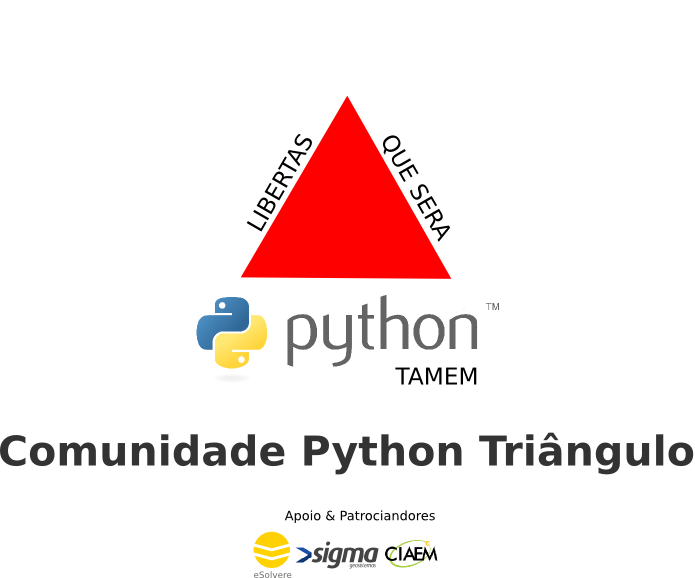
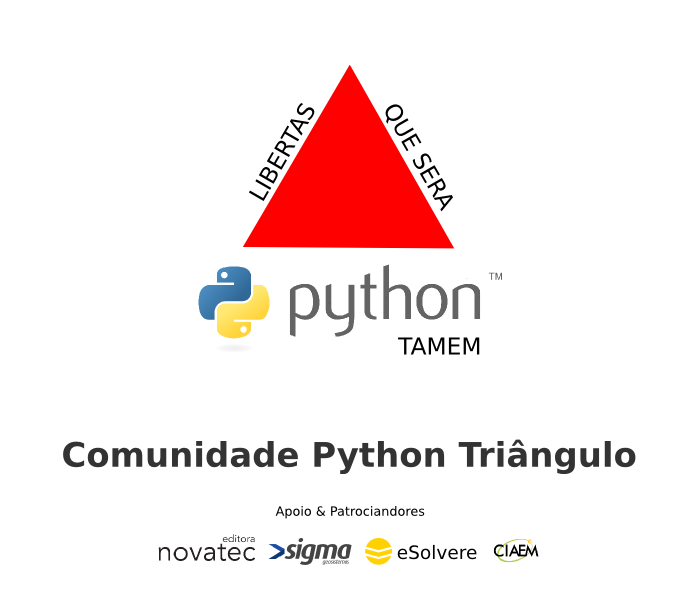
Adição de novas imagens
Inserido patrocínio CIAEM, Novatec

Changed region(s): [[0.2719, 0.0934, 0.695, 0.6851], [0.0, 0.7163, 0.9971, 1.0], [0.695, 0.436, 0.7252, 0.4671]]

diff --git a/index.html b/index.html
@@ -202,12 +202,12 @@
           </div>
           <div class="col-md-4 col-sm-6">
             <a href="#galeria">
-              <img class="img-responsive img-portfolio img-hover" src="img/fotos/03_09_16-01.jpg" alt="">
+              <img class="img-responsive img-portfolio img-hover" src="img/fotos/03_09_16-05.jpg" alt="">
             </a>
           </div>
           <div class="col-md-4 col-sm-6">
             <a href="#galeria">
-              <img class="img-responsive img-portfolio img-hover" src="img/fotos/03_09_16-01.jpg" alt="">
+              <img class="img-responsive img-portfolio img-hover" src="img/fotos/03_09_16-06.jpg" alt="">
             </a>
           </div>
         </div>
@@ -328,9 +328,10 @@
           </div>
           <div class="row">
 
-            <img class="img-responsive col-xs-12 col-sm-2 col-sm-offset-3 " src="img/apoio/esolvere.png" alt="">
-            <img class="img-responsive  col-xs-12 col-sm-2" src="img/apoio/sigma.png" alt="">
-            <img class="img-responsive  col-xs-12 col-sm-2" src="img/apoio/novatec.png" alt="">
+            <img style='max-height:55px;' class="img-responsive col-xs-12 col-sm-2 col-sm-offset-2 " src="img/apoio/esolvere.png" alt="">
+            <img style='max-height:55px;' class="img-responsive  col-xs-12 col-sm-2" src="img/apoio/sigma.png" alt="">
+            <img style='max-height:55px;' class="img-responsive  col-xs-12 col-sm-2" src="img/apoio/novatec.png" alt="">
+            <img style='max-height:55px;' class="img-responsive  col-xs-12 col-sm-2" src="img/apoio/ciaem.png" alt="">
 
           </div>
         </div>
